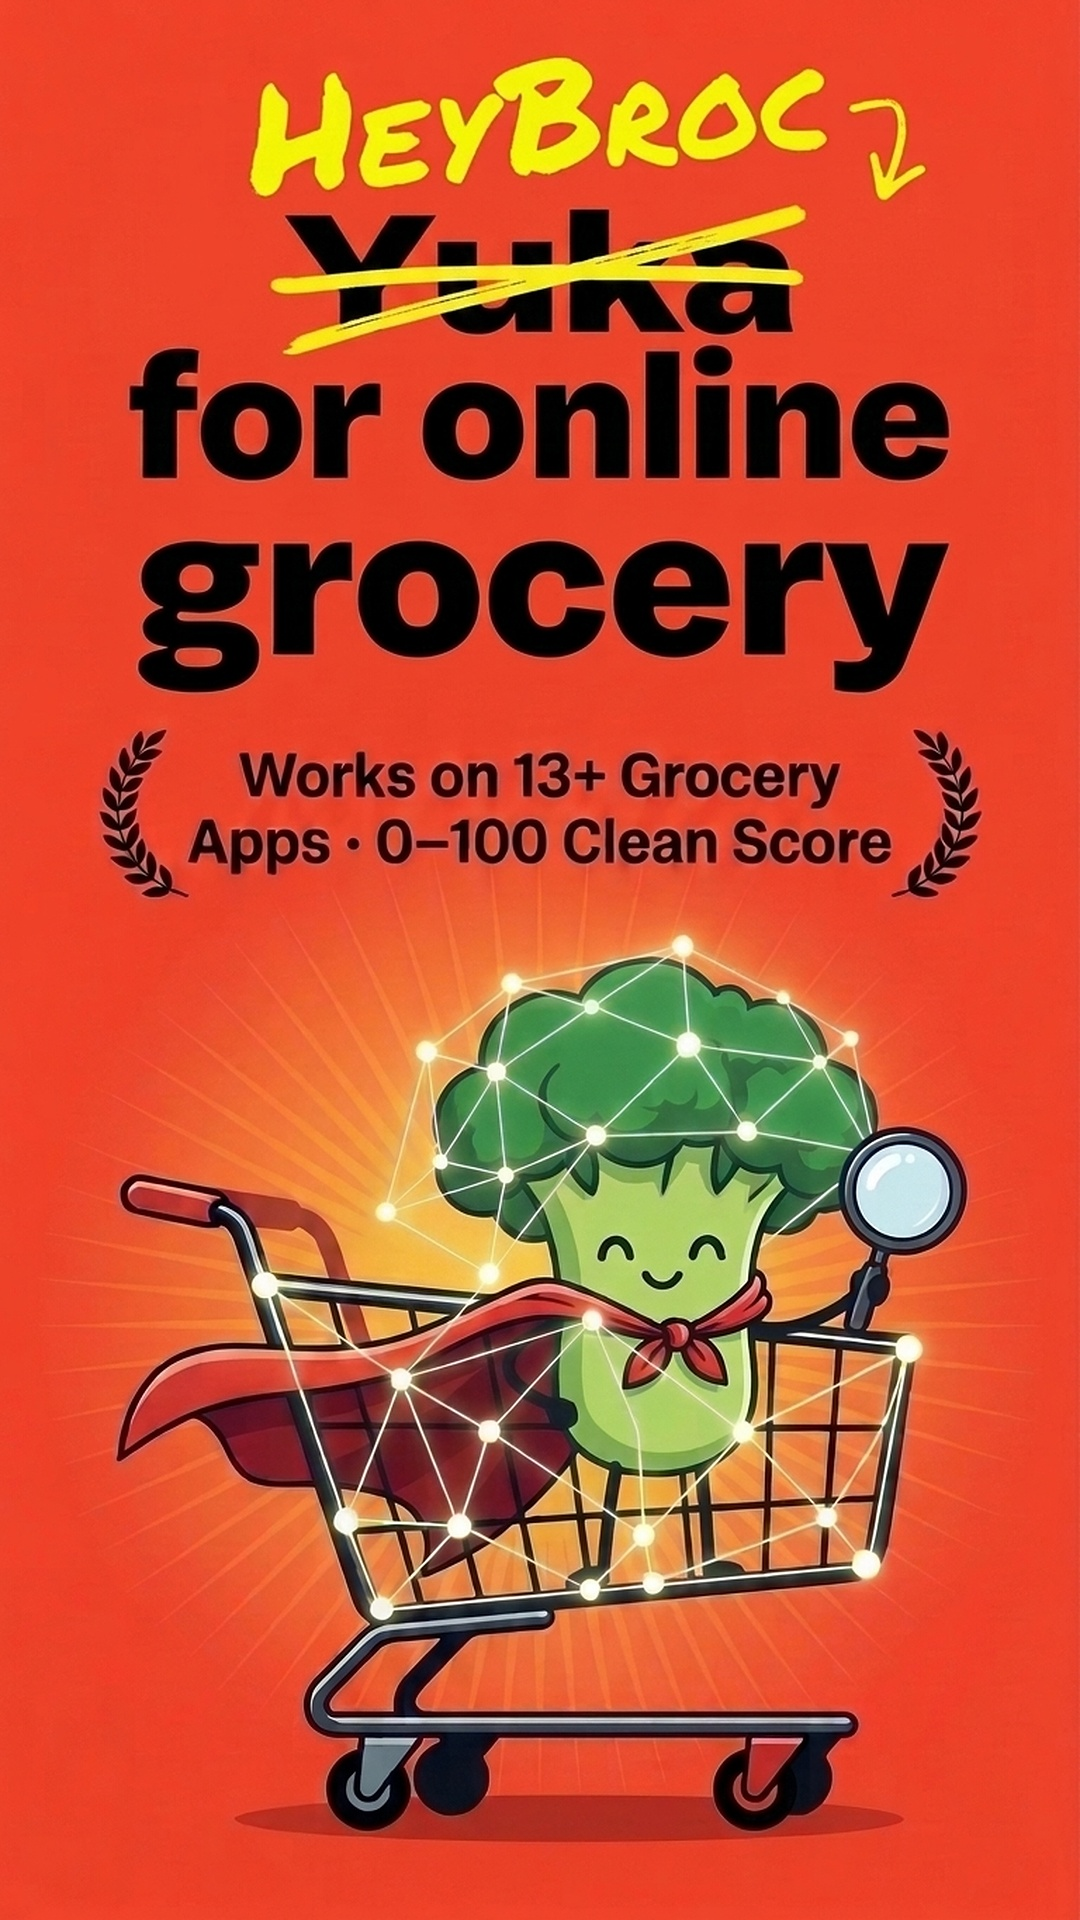
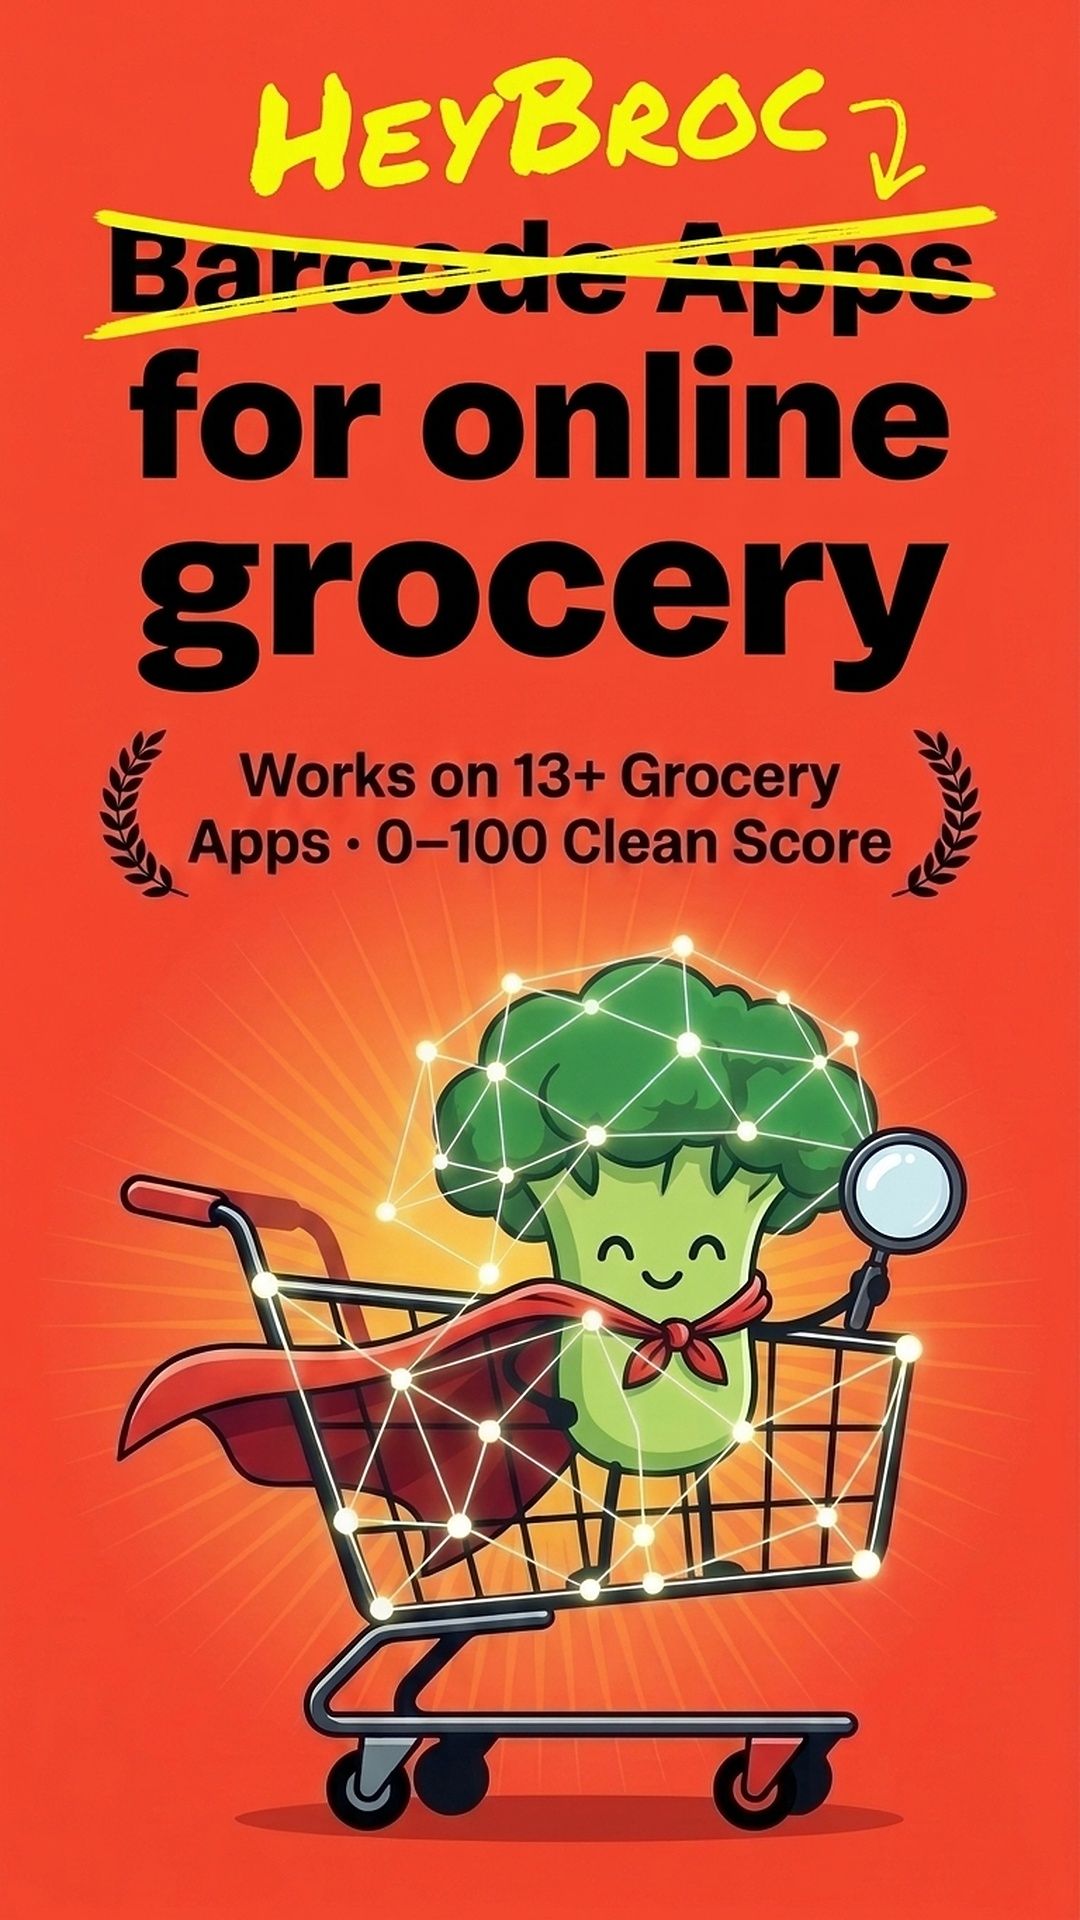
fix(store-assets): P1-12 replace Slide 1 & Slide 6 with store-compliant artwork and fix food-or-beverage Info.plist copy

Changed region(s): [[0.0917, 0.0938, 0.9167, 0.1875]]

diff --git a/scripts/test-rubric.ts b/scripts/test-rubric.ts
@@ -9912,6 +9912,61 @@ const origLoad = (Module as unknown as { _load: (request: string, parent: unknow
     );
   }
 
+  {
+    const fsNode = await import("node:fs");
+    const cryptoNode = await import("node:crypto");
+    const sha = (p: string) => cryptoNode.createHash("sha256").update(fsNode.readFileSync(p)).digest("hex");
+    const jpegDims = (p: string): [number, number] => {
+      const buf = fsNode.readFileSync(p);
+      let i = 2;
+      while (i < buf.length) {
+        while (buf[i] === 0xff) i++;
+        const marker = buf[i++];
+        if (marker === 0xc0 || marker === 0xc1 || marker === 0xc2) {
+          const h = buf.readUInt16BE(i + 3);
+          const w = buf.readUInt16BE(i + 5);
+          return [w, h];
+        }
+        i += buf.readUInt16BE(i);
+      }
+      return [0, 0];
+    };
+    const slide1SafeMatch =
+      sha("store-assets/apple-app-store/screenshots-1290x2796/slide-1-hook-poster.jpg") ===
+        sha("store-assets/apple-app-store/screenshots-1290x2796/slide-1-hook-poster-store-safe.jpg") &&
+      sha("store-assets/google-play/screenshots-1080x1920/slide-1-hook-poster.jpg") ===
+        sha("store-assets/google-play/screenshots-1080x1920/slide-1-hook-poster-store-safe.jpg") &&
+      sha("store-assets/aso-screenshots/slide-1-hook-poster.jpg") ===
+        sha("store-assets/aso-screenshots/slide-1-hook-poster-store-safe.jpg");
+    const [aW, aH] = jpegDims("store-assets/apple-app-store/screenshots-1290x2796/slide-6-awards-quote.jpg");
+    const [pW, pH] = jpegDims("store-assets/google-play/screenshots-1080x1920/slide-6-awards-quote.jpg");
+    const [gW, gH] = jpegDims("store-assets/aso-screenshots/slide-6-awards-quote.jpg");
+    const kitMd = fsNode.readFileSync("store-assets/STORE_SUBMISSION_KIT.md", "utf8");
+    const asoHtml = fsNode.readFileSync("store-assets/aso-screenshots/index.html", "utf8");
+    const infoPlist = fsNode.readFileSync("ios-app/App/Info.plist", "utf8");
+    const vcSwiftP12 = fsNode.readFileSync("ios-app/App/ViewController.swift", "utf8");
+    const buildIosP12 = fsNode.readFileSync(".github/workflows/build-ios.yml", "utf8");
+
+    check(
+      "P1-12 store-safe Slide 1 & Slide 6 screenshots at exact dimensions, clean store kit copy, and food-or-beverage Info.plist wording",
+      slide1SafeMatch &&
+        aW === 1290 && aH === 2796 &&
+        pW === 1080 && pH === 1920 &&
+        gW === 1080 && gH === 1920 &&
+        !/\bYuka\b/i.test(kitMd) &&
+        !kitMd.includes("USDA & Open Food Facts Verified") &&
+        !kitMd.includes("4.9★") &&
+        !asoHtml.includes("Award-worthy") &&
+        !asoHtml.includes("4.9★") &&
+        infoPlist.includes("food or beverage barcode") &&
+        !/cosmetic/i.test(infoPlist) &&
+        vcSwiftP12.includes("Center food or beverage UPC barcode inside frame") &&
+        !/cosmetic/i.test(vcSwiftP12) &&
+        buildIosP12.includes("food or beverage barcode") &&
+        !/cosmetic/i.test(buildIosP12),
+    );
+  }
+
   console.log("Checks executed:", checks);
   console.log(normalizeIngredients("Vegetable Oil (Soybean, Canola and/or Sunflower), corn, safflower or sunflower oil"));
   console.log(fail ? `${fail} FAILED` : "ALL CHECKS PASSED");

diff --git a/store-assets/aso-screenshots/index.html b/store-assets/aso-screenshots/index.html
@@ -145,10 +145,10 @@
     </div>
 
     <div class="slide-card">
-      <img src="./slide-6-awards-quote.jpg" alt="Slide 6 — Award-worthy clean grocery scanner" />
+      <img src="./slide-6-awards-quote.jpg" alt="Slide 6 — 12 Grocery Stores and Family Watchlist" />
       <div class="slide-caption">
-        <span class="slide-num">Slide 6 · Social Proof</span>
-        <span>4.9★ Rating &amp; Quote</span>
+        <span class="slide-num">Slide 6 · Live Shop</span>
+        <span>12 Stores &amp; Watchlist</span>
       </div>
     </div>
   </div>

diff --git a/ios-app/App/ViewController.swift b/ios-app/App/ViewController.swift
@@ -1564,7 +1564,7 @@ private final class NativeBarcodeScannerViewController: UIViewController, AVCapt
 
         let hint = UILabel()
         hint.translatesAutoresizingMaskIntoConstraints = false
-        hint.text = "Center food or cosmetic UPC barcode inside frame"
+        hint.text = "Center food or beverage UPC barcode inside frame"
         hint.font = UIFont.systemFont(ofSize: 15, weight: .bold)
         hint.textColor = .white
         hint.textAlignment = .center

diff --git a/store-assets/STORE_SUBMISSION_KIT.md b/store-assets/STORE_SUBMISSION_KIT.md
@@ -16,13 +16,12 @@
 - **Apple App Store Icon (1024×1024 PNG, 24-bit RGB opaque, no alpha):** [`store-assets/apple-app-store/icon-1024x1024.png`](file:///home/antigravity/derek22190/cleancart/store-assets/apple-app-store/icon-1024x1024.png)
 - **Apple App Store 6.7" iPhone Screenshots (Exact `1290×2796 px`, Ready to Drag & Drop into App Store Connect):** [`store-assets/apple-app-store/screenshots-1290x2796/`](file:///home/antigravity/derek22190/cleancart/store-assets/apple-app-store/screenshots-1290x2796/slide-1-hook-poster.jpg)
 - **Interactive 6-Slide ASO Screenshot Gallery:** [`store-assets/aso-screenshots/index.html`](file:///home/antigravity/derek22190/cleancart/store-assets/aso-screenshots/index.html)
-  - Slide 1 (Hook Poster — Yellow `"HEYBROC ⤵"` Scribbled Above Crossed-Out `"Yuka"` + HeyBroc Mascot in Cart with Red Superhero Cape): [`store-assets/aso-screenshots/slide-1-hook-poster.jpg`](file:///home/antigravity/derek22190/cleancart/store-assets/aso-screenshots/slide-1-hook-poster.jpg)
-    - *Store-Reviewer Fallback (if `"Yuka"` trademark is ever flagged during review — uses `"Barcode Apps"` crossed out instead):* [`store-assets/aso-screenshots/slide-1-hook-poster-store-safe.jpg`](file:///home/antigravity/derek22190/cleancart/store-assets/aso-screenshots/slide-1-hook-poster-store-safe.jpg)
+  - Slide 1 (Hook Poster — Store-Safe `"Barcode Apps"` crossed out + HeyBroc Mascot in Cart with Red Superhero Cape): [`store-assets/aso-screenshots/slide-1-hook-poster.jpg`](file:///home/antigravity/derek22190/cleancart/store-assets/aso-screenshots/slide-1-hook-poster.jpg)
   - Slide 2 (0–100 Clean Score & 1-Tap Swap): [`store-assets/aso-screenshots/slide-2-score-card.jpg`](file:///home/antigravity/derek22190/cleancart/store-assets/aso-screenshots/slide-2-score-card.jpg)
   - Slide 3 (Flagged Additives Breakdown): [`store-assets/aso-screenshots/slide-3-flagged-additives.jpg`](file:///home/antigravity/derek22190/cleancart/store-assets/aso-screenshots/slide-3-flagged-additives.jpg)
   - Slide 4 (Clean Grocery Library & 13 Apps): [`store-assets/aso-screenshots/slide-4-clean-library.jpg`](file:///home/antigravity/derek22190/cleancart/store-assets/aso-screenshots/slide-4-clean-library.jpg)
   - Slide 5 (HeyBroc Mascot in Red Cape + Clean Cart Streak): [`store-assets/aso-screenshots/slide-5-mascot-streak.jpg`](file:///home/antigravity/derek22190/cleancart/store-assets/aso-screenshots/slide-5-mascot-streak.jpg)
-  - Slide 6 (Award & 4.9★ Social Proof Poster): [`store-assets/aso-screenshots/slide-6-awards-quote.jpg`](file:///home/antigravity/derek22190/cleancart/store-assets/aso-screenshots/slide-6-awards-quote.jpg)
+  - Slide 6 (12 Grocery Stores Live Shop + Family Watchlist & Independent Scoring): [`store-assets/aso-screenshots/slide-6-awards-quote.jpg`](file:///home/antigravity/derek22190/cleancart/store-assets/aso-screenshots/slide-6-awards-quote.jpg)
 - **Privacy Policy URL (Required by both stores):** `https://www.heybroc.com/privacy`
 - **Terms of Use (EULA) URL (Required by Apple Guideline 3.1.2):** `https://www.heybroc.com/terms`
 
@@ -33,23 +32,23 @@
 When packaging the final store screenshots for **Apple App Store (1290×2796 px, 6.7")** and **Google Play Store (1080×1920 or 1290×2796 px)**, follow the proven **Deepstash ASO formula** (saved in [`store-assets/aso-screenshots/`](file:///home/antigravity/derek22190/cleancart/store-assets/aso-screenshots/index.html)):
 
 ### Core Visual Rules (Why Deepstash Converts)
-1. **Bold Color-Blocking Per Slide**: Every slide uses a distinct, saturated background color (`#F03E2F` Coral Red → `#19D37E` Mint Green → `#7C5CFF` Royal Violet → `#1890FF` Sky Blue → `#F59E0B` Warm Amber → `#E53935` Crimson Red) with high-contrast `#111814` ultra-bold headlines (`3–5 words max` per line).
-2. **Bookend Posters (Slides 1 & 6 Have NO Phone Frame)**:
-   - **Slide 1** is a pure category-defining poster with a strikethrough hook, a laurel-wreath social proof badge, and hero artwork.
-   - **Slide 6** is a pure authority/social-proof closing poster with twin laurel wreaths, a big serif pull-quote, and `★★★★★`.
-3. **Zoomed, Bottom-Bleeding Phone Cards (Slides 2–5)**:
+1. **Bold Color-Blocking Per Slide**: Every slide uses a distinct, saturated background color (`#F03E2F` Coral Red → `#19D37E` Mint Green → `#7C5CFF` Royal Violet → `#1890FF` Sky Blue → `#F59E0B` Warm Amber → `#10B981` Emerald Green) with high-contrast `#111814` ultra-bold headlines (`3–5 words max` per line).
+2. **Hero & Feature Posters**:
+   - **Slide 1** is a store-safe category poster (`~~Barcode Apps~~ for online grocery`) with zero third-party trademarks.
+   - **Slide 6** is a crisp 12-Store Live Shop + Family Watchlist & Allergens feature showcase with zero award laurels, zero unattributed quotes, and zero government endorsement claims.
+3. **Zoomed, Bottom-Bleeding Phone Cards (Slides 2–6)**:
    - Never shrink a whole tiny phone into the middle of the slide where text is unreadable.
    - Crop the top 65% of a clean white-card UI inside a bold black bezel (`border: 6px solid #111814; border-radius: 44px 44px 0 0`) bleeding off the bottom edge so every ingredient flag, score ring, and swap button is huge and legible from the search results page.
 
 ### Slide-by-Slide Copy & Layout Spec
 | Slide | Background | Headline (Top 25%) | Visual / UI Focus (Bottom 75%) |
 | :--- | :--- | :--- | :--- |
-| **Slide 1 (Hook Poster)** | Coral Red (`#F03E2F`) | `~~Barcode scanning~~ for online grocery` | Laurel wreath (`Works on 13+ Grocery Apps · 0–100 Clean Score`) + 3D Broc mascot with glowing ingredient-radar network nodes (`Seed Oils`, `Red 40`, `HFCS`, `Sucralose`). |
+| **Slide 1 (Hook Poster)** | Coral Red (`#F03E2F`) | `~~Barcode Apps~~ for online grocery` | `Works on 13+ Grocery Apps · 0–100 Clean Score` + 3D Broc mascot with glowing ingredient-radar network nodes (`Seed Oils`, `Red 40`, `HFCS`, `Sucralose`). |
 | **Slide 2 (Core Action)** | Mint Green (`#19D37E`) | `Replace mystery labels with 0–100 scores` | Bottom-cropped phone showing the floating HeyBroc pill + instant `6/100 Bad` → `100/100 Excellent` Product Grade sheet over Walmart, Amazon, Instacart & Shipt. |
 | **Slide 3 (Additive X-Ray)** | Royal Violet (`#7C5CFF`) | `Spot Seed Oils, Red 40 & hidden toxins` | Zoomed-in flagged additive breakdown (`1. Red 40 · −25 pts`, `2. Soybean Oil · −15 pts`, `3. Sucralose · −20 pts`) with plain-English scientific citations. |
 | **Slide 4 (Swaps & Library)** | Sky Blue (`#1890FF`) | `Build your clean grocery library` | `My Scans` & `♥ Saved Swaps` folders (`Clean Drinks`, `Avocado Oil Picks`) + `1-Tap Clean Swap: Guayakí Organic Yerba Mate (100/100) — Find in Shipt ↗`. |
 | **Slide 5 (Mascot + Watchlist)** | Warm Amber (`#F59E0B`) | `Shop cleaner daily, the easy way` | 3D Broc mascot standing proud above `"Clean Cart Streak"` + `🛡 Allergies & Diabetes` and `Family Watchlist (2x Penalty)` badges. |
-| **Slide 6 (Social Proof Poster)** | Crimson Red (`#E53935`) | `Independent clean-label food scanner` | Twin laurel wreaths (`100% Independent Scoring` · `USDA & Open Food Facts Verified`), big serif quote (*"The health breakthroughs I've had using HeyBroc changed how my family buys groceries forever."*), `★★★★★`, and clean-heart illustration. |
+| **Slide 6 (12 Stores + Watchlist)** | Emerald Green (`#10B981`) | `12 Grocery Stores. Your Family Watchlist.` | Live Shop retailer chip grid (all 13 tiles across 12 store backends) + Family Watchlist & Allergens 2x Penalty/Instant Alert cards + transparent independent rubric disclaimer. |
 
 ---
 
@@ -80,7 +79,7 @@ HOW HEYBROC WORKS:
 • Transparent 3-Pillar Score (0–100): Every product is graded across Nutritional Quality (60%), Additive & Chemical Safety (30%), and Organic Bonus (10%).
 • Instant Flagged Ingredient Breakdown: Immediately see high-risk and moderate-risk additives like Red 40, Yellow 5 & 6, Titanium Dioxide, Potassium Bromate, BHA/BHT, High Fructose Corn Syrup, Nitrites, Carrageenan, and Refined Seed Oils—with plain-English explanations and scientific citations.
 • 1-Tap Clean Swaps: Whenever a product scores poorly, HeyBroc shows a real, same-category healthier alternative (like swapping conventional chips or dressings for avocado-oil or organic picks) so you never have to guess what to buy instead.
-• Live Store Bubble & Safari Extension: Floats right alongside your grocery shopping on Walmart, Target, Instacart, Kroger, ALDI, Costco, Sam's Club, BJ's, Amazon Fresh, DoorDash, Uber Eats, and Shipt.
+• Live Store Browser & Safari Extension: Shows on-photo 0–100 score badges right inside Live Shop for Walmart, Target, Instacart, Kroger, ALDI, Costco, Sam's Club, BJ's, Amazon Fresh, Whole Foods, DoorDash, Uber Eats, and Shipt.
 • Custom Family Watchlist: Toggle the exact categories your household avoids (Seed Oils, Artificial Dyes, Artificial Sweeteners, Preservatives & Nitrites, Emulsifiers, Thickening Gums, or Artificial Flavors & MSG).
 
 100% INDEPENDENT RATING:
@@ -100,19 +99,11 @@ food scanner,ingredients,clean eating,seed oil,grocery,nutrition,additives,healt
 
 ---
 
-## 3. Google Play Console — Accessibility Service Declaration (Copy-Paste)
+## 3. Google Play Console — Accessibility Service Declaration
 
 In Google Play Console → **Policy and programs → App content → Accessibility API**:
-- **Does your app use the AccessibilityService API?** Select **Yes**
-- **Category / Purpose:** Utility / Shopping Assistant triggered by user opt-in
-- **Explanation (Copy-paste into Play Console):**
-```text
-HeyBroc uses the Android AccessibilityService API solely after explicit user opt-in via our prominent in-app disclosure modal on 13 supported grocery shopping apps (Walmart, Target, Instacart, Kroger, ALDI, Costco, Sam's Club, BJ's, Amazon Shopping / Amazon Fresh, Whole Foods Market, DoorDash, Uber Eats, and Shipt) to:
-1) Read visible product title text, visible ingredient text, and visible cart item titles (up to 20 items on Cart screens) so HeyBroc can display the product's 0–100 ingredient health score, Whole-Cart Health Check, and cleaner swap suggestions in a floating pill, and
-2) When the shopper explicitly taps "Find in Store" or "Swap in Store" on a Clean Swap recommendation, enter that replacement item into the active store's search bar.
-
-Extracted product titles, ingredient text, active store identifier, additive & allergy watchlist preferences, referral code, and an install-scoped random UUID (retained up to 1 year for Pro entitlement and weekly swap accounting) are transmitted over HTTPS to heybroc.com/api/scan. HeyBroc never reads passwords, payment inputs, messages, or text outside the 13 allowlisted grocery shopping packages, and never sells personal user data. Users can pause or disable the Live Store Bubble with one tap at any time.
-```
+- **Does your app use the AccessibilityService API?** Select **No** (the `play` Gradle flavor built for Google Play removes `BIND_ACCESSIBILITY_SERVICE` and `SYSTEM_ALERT_WINDOW` entirely and uses the in-app Live Shop browser `LiveStoreBrowserActivity` plus Google Play Billing).
+- *(Note: Only the optional direct-download APK (`direct` flavor) distributed outside Google Play includes the opt-in floating `AccessibilityService` overlay.)*
 
 ---
 
